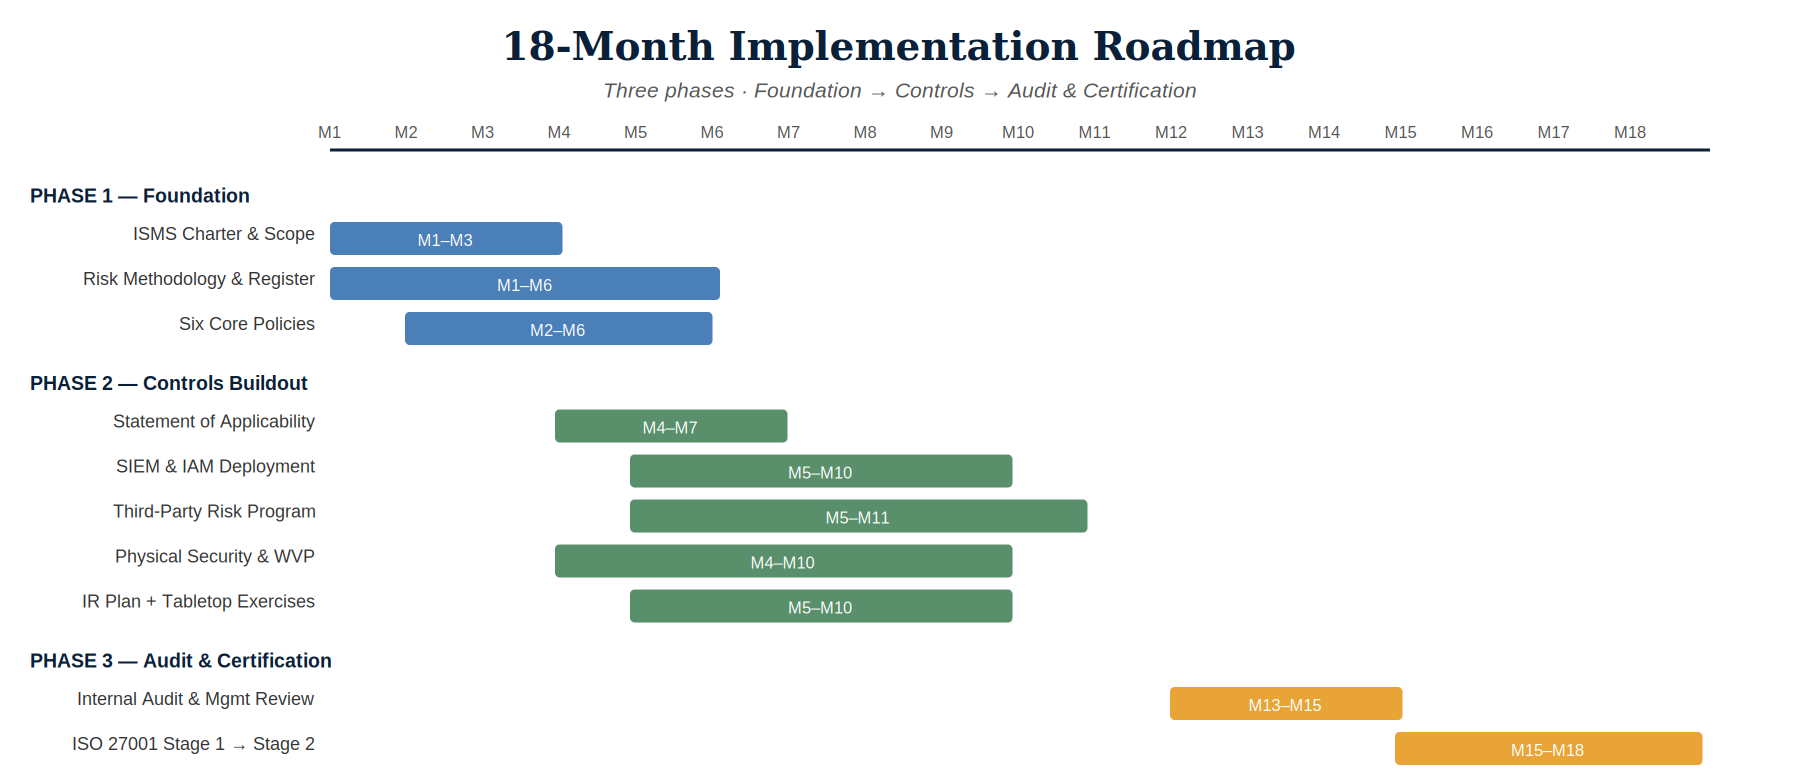
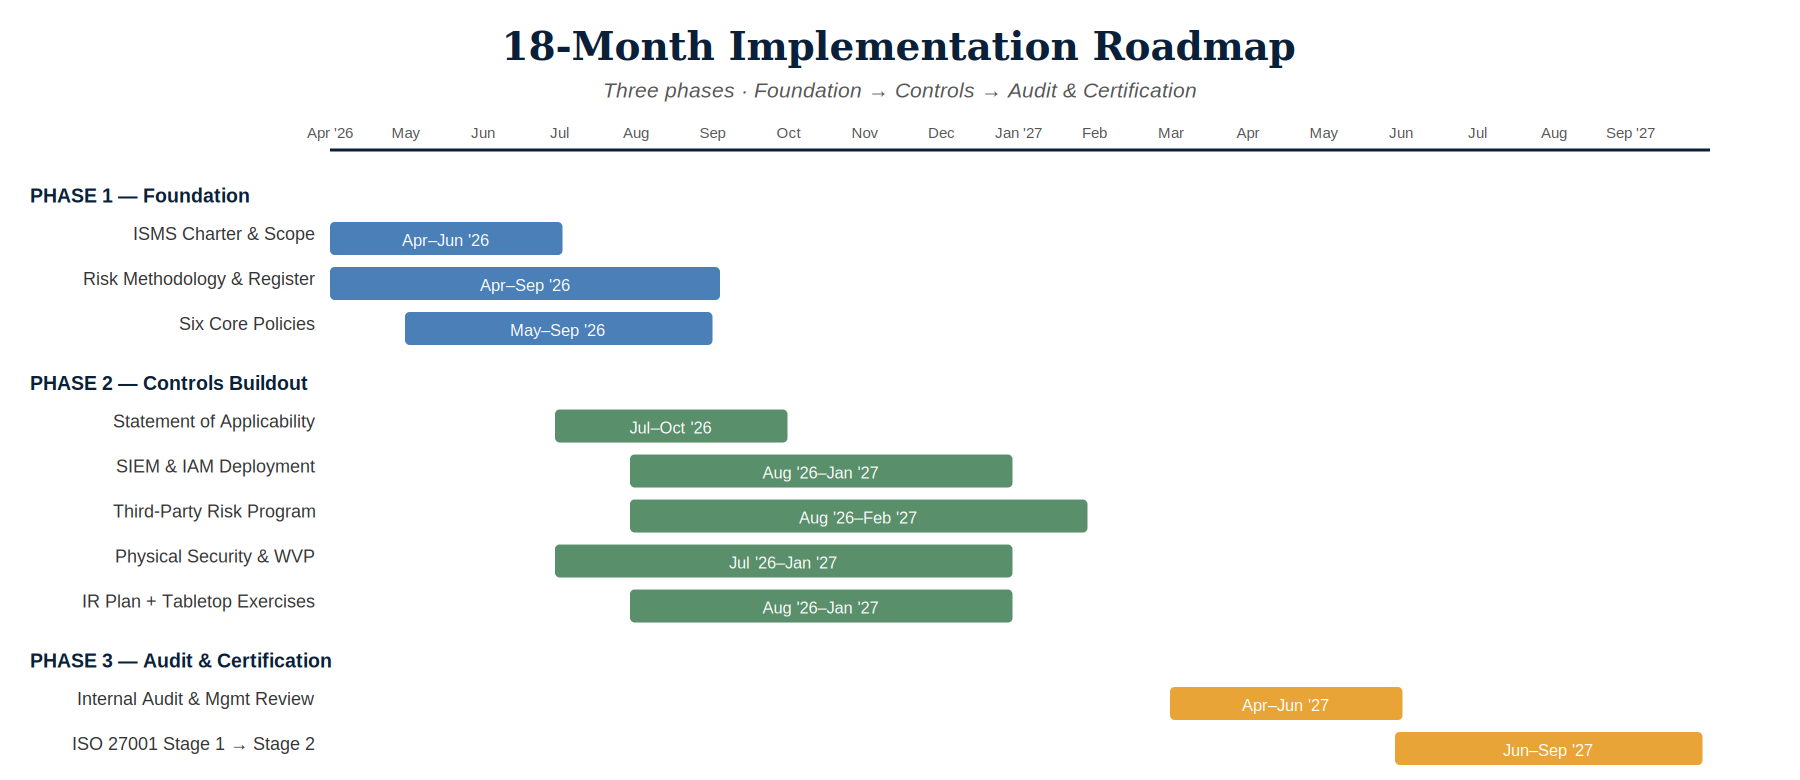
Polish — better diagrams, success metrics, lessons learned

diff --git a/README.md b/README.md
@@ -19,7 +19,7 @@
 
 In **Q1 2026**, Cumberland Trust Federal Credit Union (CTFCU) — a $2B regional credit union serving 85,000 members across Tennessee, Kentucky, and Alabama — experienced a phishing incident that resulted in one compromised employee account. The account was disabled within four hours and no member data was exfiltrated, but the incident surfaced during the credit union's annual **NCUA examination** and triggered findings around cybersecurity governance, third-party risk oversight, and incident response maturity.
 
-In response, the CTFCU Board of Directors authorized an **18-month engagement** to design and deliver a formal Information Security Management System (ISMS), aligned to **NIST CSF 2.0** and **ISO/IEC 27001:2022**, with the goal of pursuing ISO 27001 certification by Month 18.
+In response, the CTFCU Board of Directors authorized an **18-month engagement** to design and deliver a formal Information Security Management System (ISMS), aligned to **NIST CSF 2.0** and **ISO/IEC 27001:2022**, with the goal of pursuing ISO 27001 certification by September 2027.
 
 I was engaged as the **fractional GRC consultant** responsible for designing the program: charter, scope, risk methodology and register, control framework mapping, third-party risk model, physical security integration, incident response plan, and a phased implementation roadmap.
 
@@ -42,19 +42,19 @@ This convergence is the engagement's defining choice. It reflects how modern ent
 The full risk assessment identified 15 risks across cyber, physical, behavioral, regulatory, and operational categories. After controls are applied, the residual risk profile looks like this:
 
 <p align="center">
-  <img src="./assets/risk-heatmap.png" alt="CTFCU Risk Heatmap" width="80%">
+  <img src="./assets/risk-heatmap.png" alt="CTFCU Risk Heatmap" width="90%">
 </p>
 
-The two highest residual risks — **R-01 Ransomware** and **R-04 Phishing Credential Compromise** — drive the Phase 2 control sequence: SIEM deployment, MFA on all administrative systems, immutable backup tier, and phishing-resistant authentication.
+The two highest residual risks — **Ransomware (R1)** and **Phishing Credential Compromise (R4)** — drive the Phase 2 control sequence: SIEM deployment, MFA on all administrative systems, immutable backup tier, and phishing-resistant authentication.
 
 | Rank | Risk | Residual | Owner |
 |---|---|---|---|
-| 1 | **R-01** · Ransomware on production systems | Critical (20) | CIO |
-| 2 | **R-04** · Phishing credential compromise | Critical (20) | InfoSec Manager |
-| 3 | **R-07** · Critical third-party compromise | Very High (16) | CRO |
-| 4 | **R-02** · Insider privileged user abuse | High (12) | CIO + HR |
-| 5 | **R-08** · Unpatched critical vulnerabilities | High (12) | IT Ops Manager |
-| 6 | **R-15** · Workplace violence at branch or HQ | High (10) | HR + Physical Security |
+| 1 | **R1** · Ransomware on production systems | Critical (20) | CIO |
+| 2 | **R4** · Phishing credential compromise | Critical (20) | InfoSec Manager |
+| 3 | **R7** · Critical third-party compromise | Very High (16) | CRO |
+| 4 | **R2** · Insider privileged user abuse | High (12) | CIO + HR |
+| 5 | **R8** · Unpatched critical vulnerabilities | High (12) | IT Ops Manager |
+| 6 | **R15** · Workplace violence at branch or HQ | High (10) | HR + Physical Security |
 
 📊 **Full quantitative register:** [`CTFCU-Risk-Register.xlsx`](./CTFCU-Risk-Register.xlsx) — 15 risks, full likelihood × impact scoring, treatment plan, $893K capital and $387K annual operating roll-up.
 
@@ -82,13 +82,47 @@ Supporting references include NIST SP 800-30 (risk methodology), ISO/IEC 27005 (
   <img src="./assets/roadmap.png" alt="18-Month Implementation Roadmap" width="95%">
 </p>
 
-**Phase 1 — Foundation** (Months 1–6) · Governance, risk methodology, register, and six core policies. The "Plan" half of the ISO 27001 PDCA cycle.
+**Phase 1 — Foundation** (Apr–Sep 2026) · Governance, risk methodology, register, and six core policies. The "Plan" half of the ISO 27001 PDCA cycle.
 
-**Phase 2 — Controls Buildout** (Months 4–14) · Statement of Applicability across all 93 Annex A controls, SIEM and IAM deployment, third-party risk program, physical security and workplace violence prevention program, IR plan with tabletop exercises.
+**Phase 2 — Controls Buildout** (Jul 2026–May 2027) · Statement of Applicability across all 93 Annex A controls, SIEM and IAM deployment, third-party risk program, physical security and workplace violence prevention program, IR plan with tabletop exercises.
 
-**Phase 3 — Audit & Certification** (Months 13–18) · Internal audit cycle, management review, ISO 27001 Stage 1, remediation, Stage 2 audit and certification.
+**Phase 3 — Audit & Certification** (Apr–Sep 2027) · Internal audit cycle, management review, ISO 27001 Stage 1, remediation, Stage 2 audit and certification.
 
 **Total program cost:** ~$893K capital expense + ~$387K annual operating, including SIEM platform, IAM/PAM tooling, immutable backups, ATM anti-skim retrofit, branch hardening, training, cyber insurance, and external audit fees.
+
+---
+
+## How Success Is Measured
+
+The program is built to be measurable. Key metrics reported quarterly to the Board:
+
+| Metric | Baseline | Month 18 Target |
+|---|---|---|
+| FFIEC cybersecurity maturity | Evolving | Advanced |
+| ISO 27001 Annex A controls implemented | 24 of 93 (26%) | 82 of 93 (88%) |
+| MFA coverage on administrative systems | ~30% | 100% |
+| Phishing simulation click rate | Not measured | < 5% |
+| Patch SLA compliance (Critical / 14-day) | Not measured | ≥ 95% |
+| Third-party vendors with current SOC 2 / ISO evidence | 0% | 100% of Tier 1–2 |
+| Mean time to detect (Tier 1 systems) | Not measured | < 4 hours |
+| Annual tabletop exercises conducted | 0 | ≥ 2 |
+
+---
+
+## Lessons Learned
+
+A few things this engagement reinforced that don't always show up in framework documentation:
+
+- **Frameworks are scaffolding, not the building.** ISO 27001 tells you *what* an ISMS needs. It doesn't tell you how to actually get a credit union with 340 employees and 60+ vendors to operate it. The implementation roadmap matters more than the SoA.
+- **Physical risk belongs on the same risk register as cyber risk.** Separating them creates governance gaps that real incidents will exploit. Workplace violence, branch robbery, and ATM tampering are information security risks too.
+- **Vendor risk is the loudest underestimated risk.** CTFCU has 66 third parties. Six are critical. None had formal risk tiering at engagement start. This is the most common gap in regional financial institutions, and the hardest to fix retroactively because contracts are already signed.
+- **Sustainability matters more than ambition.** The cleanest ISMS in the world is useless if it requires the consultant to operate it. Every deliverable in this engagement was built to be owned by internal CTFCU staff by Month 18.
+
+---
+
+## Beyond Month 18
+
+ISO 27001 certification is not the finish line — it's the baseline. The program is designed to continue under CTFCU's own ownership through the annual ISO surveillance audit cycle, the quarterly Information Security Steering Committee, and the ongoing Plan-Do-Check-Act cycle defined in ISO 27001 Clause 10. Continuous improvement is the point of the framework, not a side effect.
 
 ---
 
